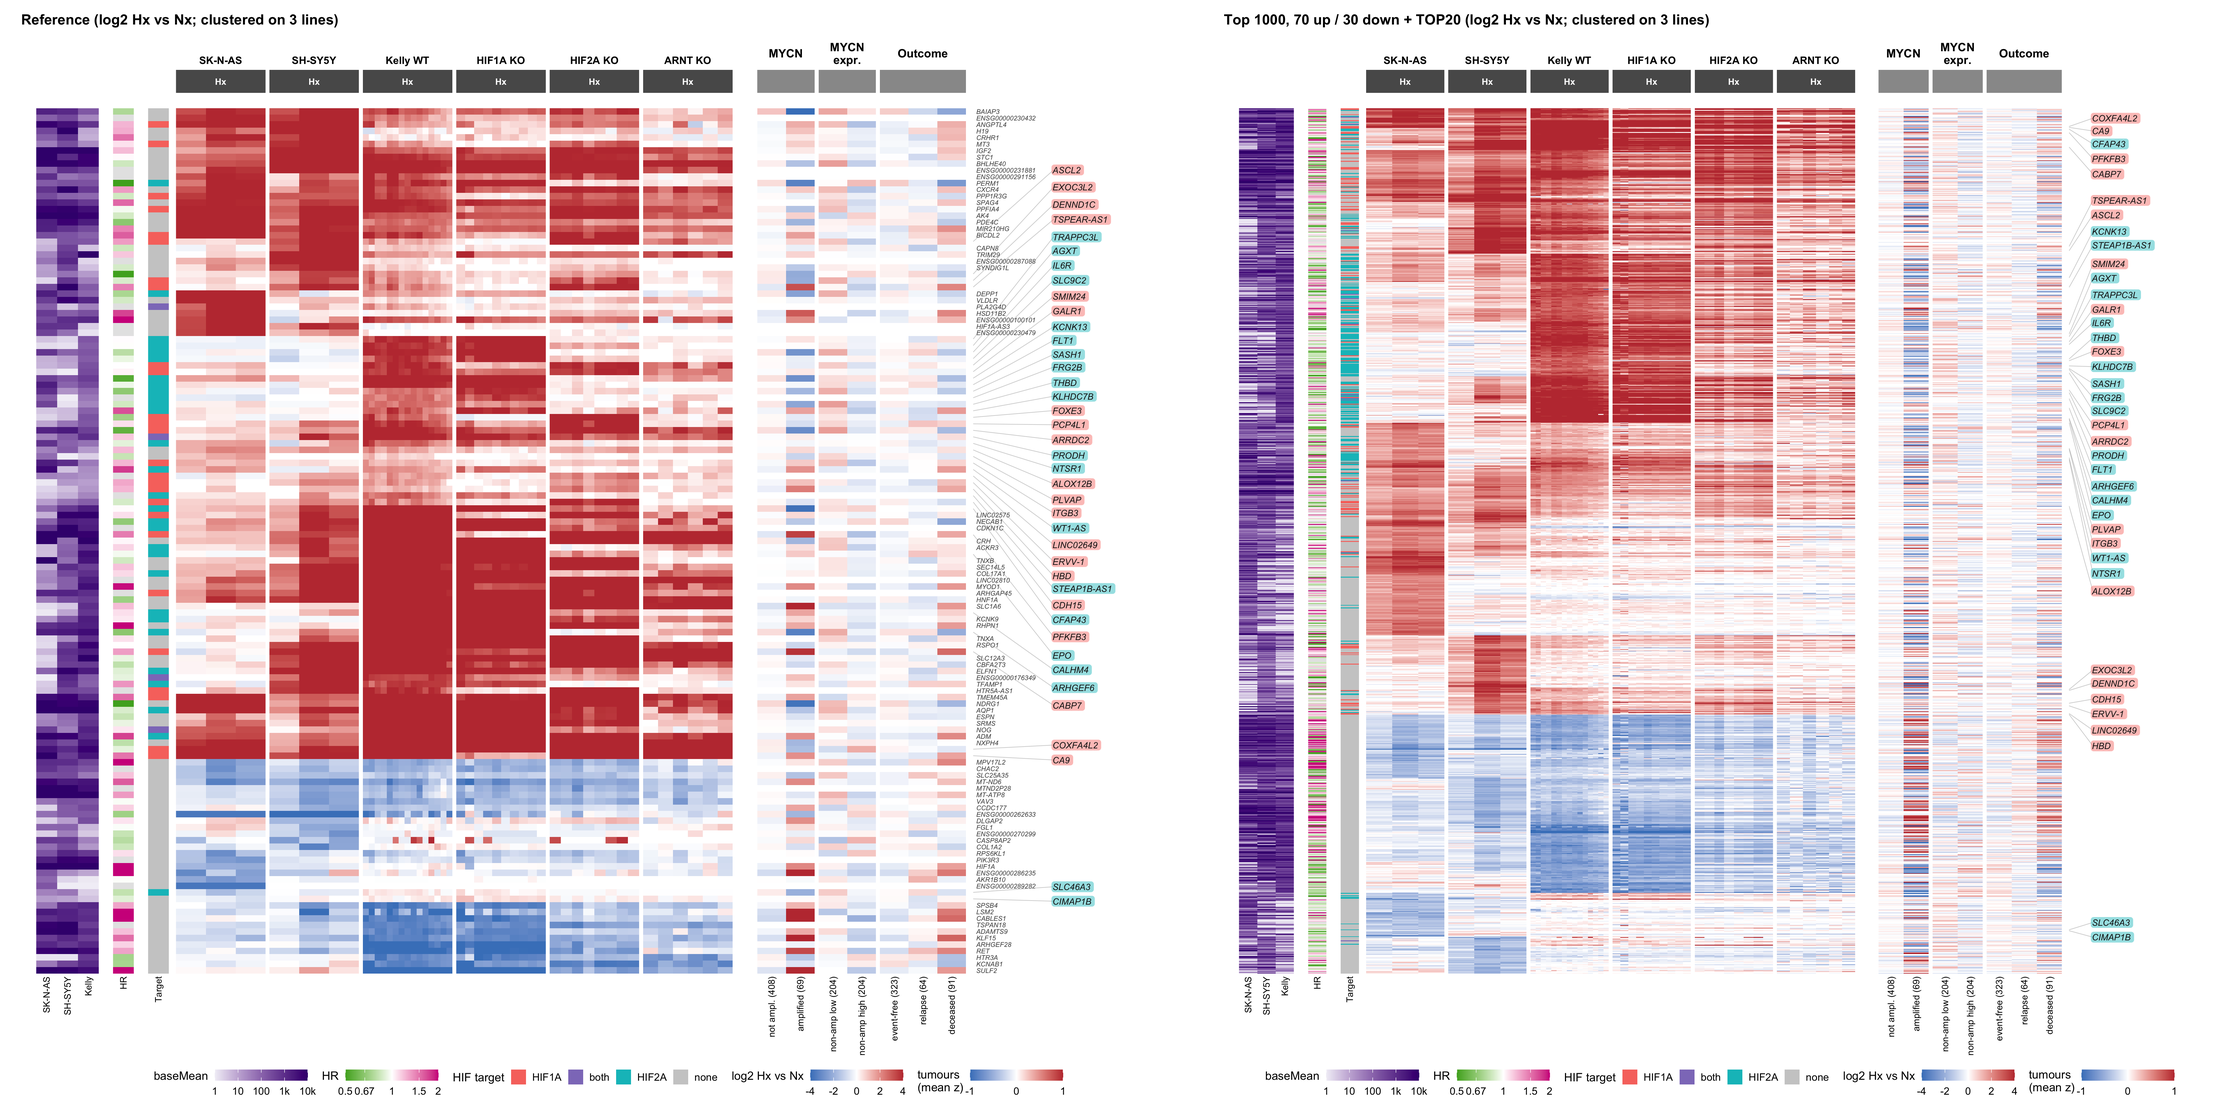
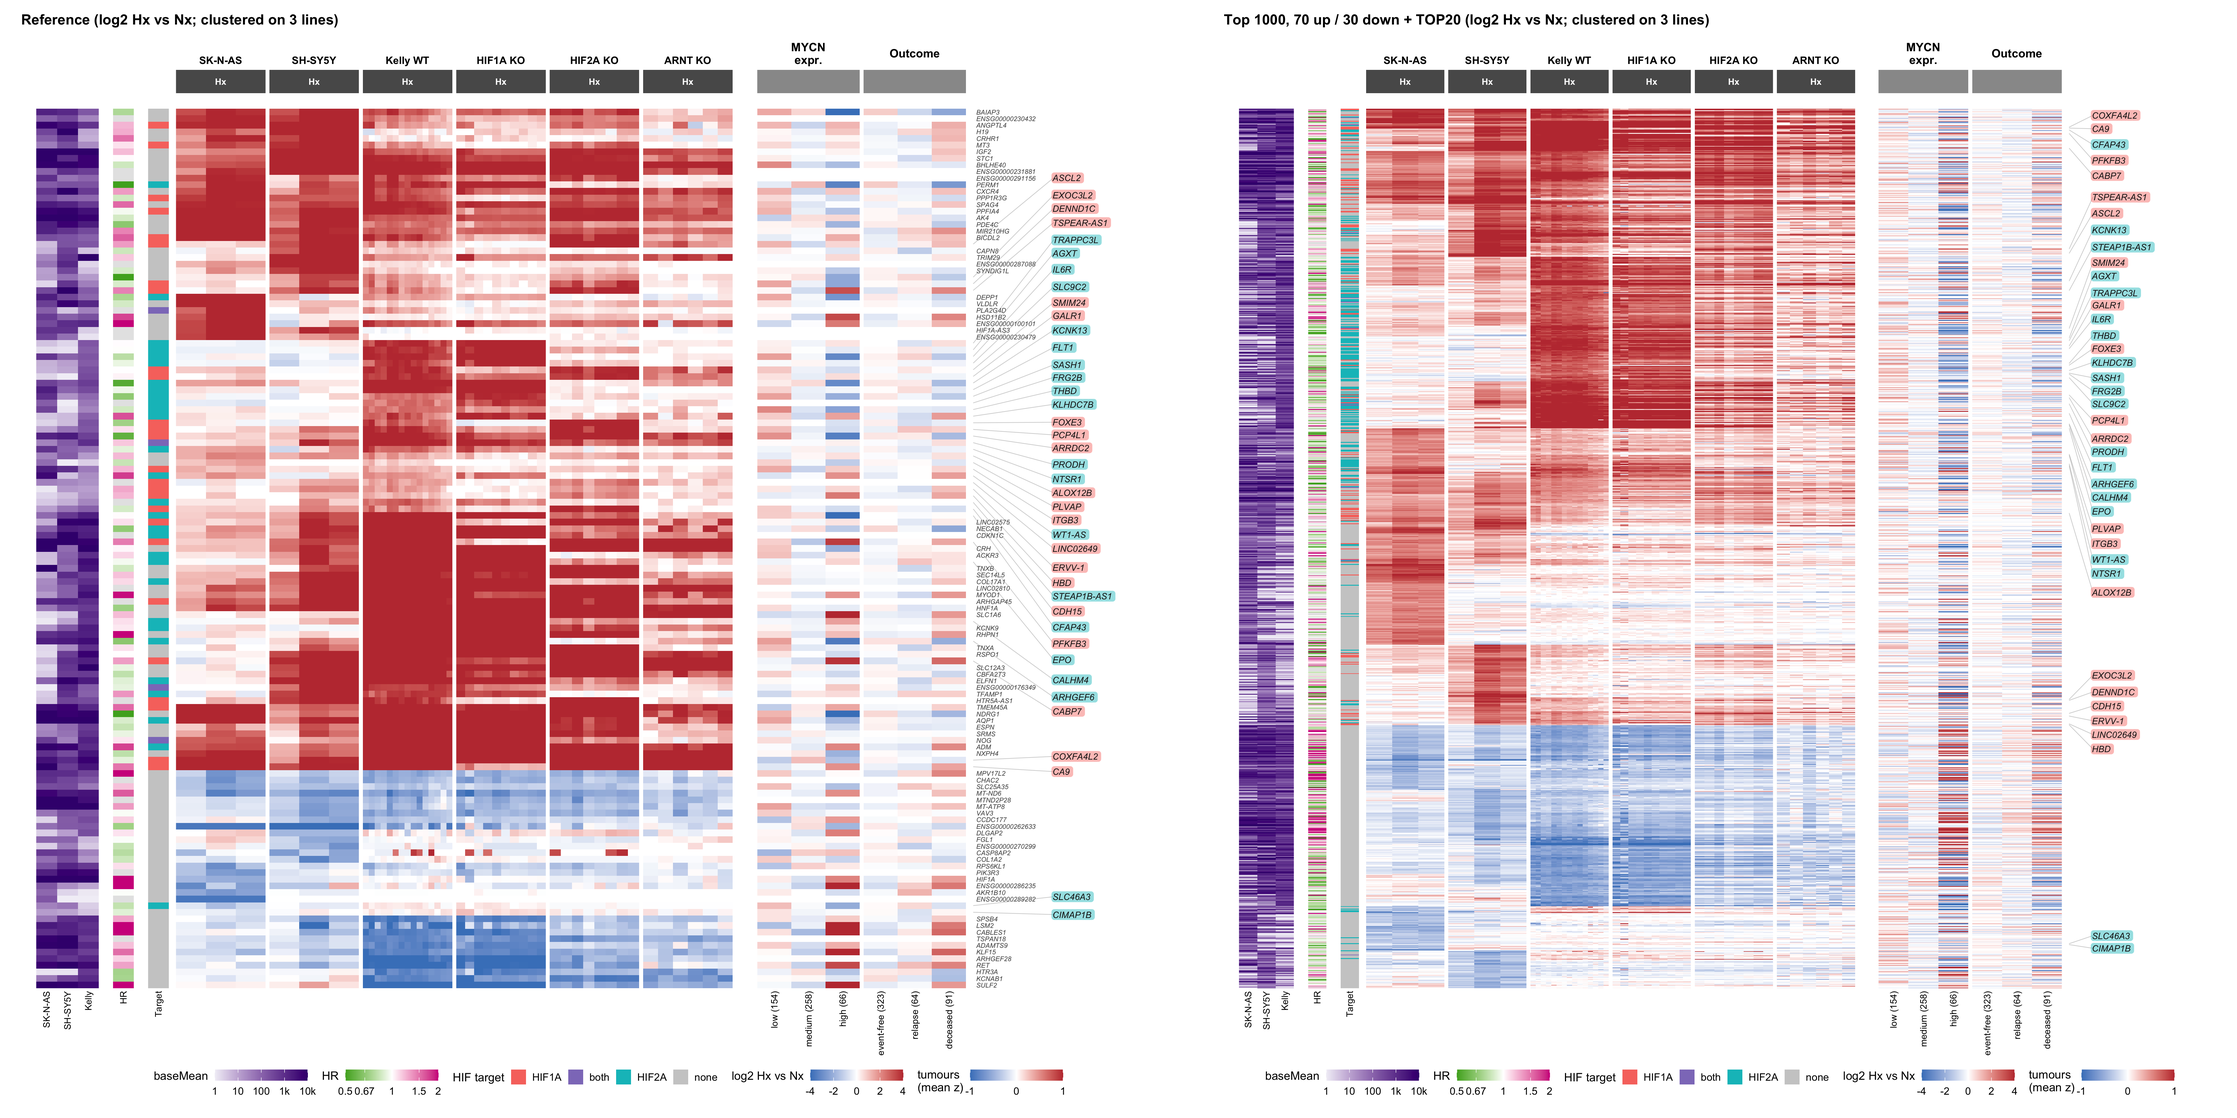
MYCN expression in three groups by measured level, cutoffs in histogram, numbered figures

diff --git a/6_XM_data_merge/Dive.md b/6_XM_data_merge/Dive.md
@@ -411,6 +411,9 @@ p2 <- mk(dplyr::filter(pdat, panel == "HIF2A targets"), "HIF2A targets", FALSE)
 
 </details>
 
+**Figure 1. Clinical risk versus HIF dependence of the HIF1A and HIF2A
+targets**
+
 ![](Dive_files/figure-gfm/risk_vs_dependence-1.png)<!-- -->
 
 **Genes per panel - the difference to `in_dive` are genes without a
@@ -506,6 +509,8 @@ ggplot(hr_top, aes(y = label, x = HR, colour = group)) +
 ```
 
 </details>
+
+**Figure 2. Hazard ratios of the top HIF1A and HIF2A targets**
 
 ![](Dive_files/figure-gfm/hr_top_targets-1.png)<!-- -->
 
@@ -763,12 +768,11 @@ if (file.exists(tum_cache)) {
   saveRDS(tum, tum_cache)
 }
 
-# Clinical annotation of the tumours, condensed into three group columns:
-# MYCN status (Nmyc gain counts as not amplified), MYCN expression and outcome.
-# MYCN expression is bimodal: the amplified tumours form their own peak, so a
-# median split over all tumours would mostly re-split by amplification.
-# Instead the non-amplified tumours are split at their own median.
-# Matched to the array columns by scan name.
+# Clinical annotation of the tumours, condensed into two group columns:
+# MYCN expression (three levels by the actual array expression, regardless of
+# amplification) and outcome. The amplification status (Nmyc gain counts as
+# not amplified) is kept only for the histogram. Matched to the array columns
+# by scan name.
 tum_meta <- read.csv(here::here("6_XM_data_merge", "Primary_NB_Microarray_meta",
                                 "metadata_nb.csv"), check.names = FALSE)[, -1] %>%
   dplyr::transmute(
@@ -783,13 +787,13 @@ tum_meta <- read.csv(here::here("6_XM_data_merge", "Primary_NB_Microarray_meta",
                             deceased = "deceased"),
     mycn_expr = tum$mycn[sample]) %>%
   dplyr::filter(sample %in% colnames(tum$z))
-mycn_cut <- median(tum_meta$mycn_expr[tum_meta$MYCN %in% "not ampl."])
+# Cutoffs between the groups, set by eye from the histogram (low <= 12.4,
+# medium 12.6 - 14.8, high > 15); the boundaries sit in the middle of the gaps.
+mycn_cuts <- c(12.5, 14.9)
 tum_meta <- tum_meta %>%
-  dplyr::mutate(`MYCN expr.` = dplyr::case_when(
-    MYCN %in% "not ampl." & mycn_expr <  mycn_cut ~ "non-amp low",
-    MYCN %in% "not ampl." & mycn_expr >= mycn_cut ~ "non-amp high"))
-tum_levels <- list(MYCN         = c("not ampl.", "amplified"),
-                   `MYCN expr.` = c("non-amp low", "non-amp high"),
+  dplyr::mutate(`MYCN expr.` = as.character(cut(mycn_expr, c(-Inf, mycn_cuts, Inf),
+                                                labels = c("low", "medium", "high"))))
+tum_levels <- list(`MYCN expr.` = c("low", "medium", "high"),
                    Outcome      = c("event-free", "relapse", "deceased"))
 tum_groups <- purrr::imap_dfr(tum_levels, function(lv, panel) {
   tum_meta %>%
@@ -1070,6 +1074,8 @@ hx_heatmap(character(0), title = "CUT&RUN TOP20 HIF1A / HIF2A targets (log2 Hx v
 
 </details>
 
+**Figure 3. CUT&RUN TOP20 HIF1A / HIF2A targets**
+
 <img src="Dive_files/figure-gfm/hx_heatmap_top20-1.png" width="40%" />
 
 All 40 genes are readable. The KO columns confirm the assignment: the
@@ -1126,6 +1132,8 @@ hx_heatmap(names(targets), split = targets,
 
 </details>
 
+**Figure 4. All HIF1A and HIF2A targets**
+
 <img src="Dive_files/figure-gfm/hx_heatmap_targets-1.png" width="40%" />
 
 The split makes the difference between the two arms obvious. The HIF2A
@@ -1163,19 +1171,19 @@ the clinical hazard ratio per gene (green protective, magenta adverse,
 grey no survival data).
 
 On the right, the same genes in **478 primary neuroblastomas**
-(microarray), condensed into clinical groups: MYCN status, INSS stage
-and outcome. Each column is the mean z-score of the gene across the
-tumours of that group, with the z-score taken per gene over the whole
-cohort. Array intensities cannot be put on the log2-vs-Nx scale of the
-cell lines, so only the difference between groups counts: red = higher
-in this group than in the average tumour.
+(microarray), condensed into clinical groups: MYCN expression and
+outcome. Each column is the mean z-score of the gene across the tumours
+of that group, with the z-score taken per gene over the whole cohort.
+Array intensities cannot be put on the log2-vs-Nx scale of the cell
+lines, so only the difference between groups counts: red = higher in
+this group than in the average tumour.
 
-MYCN expression on the array is bimodal (below): the amplified tumours
-form a separate peak at high expression. A median split over all tumours
-would therefore largely repeat the amplification status. The **MYCN
-expr.** columns instead split only the non-amplified tumours at their
-own median (dashed line, log2 12.8), which asks whether MYCN level
-matters beyond amplification.
+MYCN expression on the array is bimodal (Figure 5): the amplified
+tumours form a separate peak at high expression. The **MYCN expr.**
+columns group the tumours by the measured expression alone, with cutoffs
+at log2 12.5 and 14.9 (dashed lines): **low**, **medium** and **high**.
+High is almost entirely the amplified peak, low and medium split the
+non-amplified tumours.
 
 <details>
 
@@ -1185,16 +1193,24 @@ Code
 </summary>
 
 ``` r
+mycn_n <- table(factor(tum_meta$`MYCN expr.`, levels = tum_levels$`MYCN expr.`))
 ggplot(tum_meta, aes(x = mycn_expr, fill = MYCN)) +
   geom_histogram(binwidth = 0.25) +
-  geom_vline(xintercept = mycn_cut, linetype = 2, linewidth = 0.4) +
+  geom_vline(xintercept = mycn_cuts, linetype = 2, linewidth = 0.4) +
+  annotate("text", x = c(mycn_cuts[1] - 0.15, mean(mycn_cuts), mycn_cuts[2] + 0.15), y = Inf,
+           vjust = 1.3, hjust = c(1, 0.5, 0), size = 3,
+           label = paste0(names(mycn_n), " (", mycn_n, ")")) +
   scale_fill_manual(values = c(amplified = "#C03A3E", `not ampl.` = "grey60"),
                     na.value = "grey85", name = "MYCN") +
+  scale_y_continuous(expand = expansion(mult = c(0.02, 0.15))) +
   labs(x = "MYCN expression (log2 array intensity)", y = "tumours") +
   theme_minimal(base_size = 10)
 ```
 
 </details>
+
+**Figure 5. MYCN expression in the primary tumours, with the cutoffs of
+the three MYCN expr. groups**
 
 <img src="Dive_files/figure-gfm/tumour_mycn_hist-1.png" width="60%" />
 
@@ -1213,33 +1229,32 @@ hx_heatmap(hx500, rows = hx_rows_500, tumours = TRUE,
 
 </details>
 
+**Figure 6. Top 500 hypoxia-regulated genes, with the primary tumours**
+
 <img src="Dive_files/figure-gfm/hx_heatmap_hx500-1.png" width="40%" />
 
 **Tumour hypoxia score (median of the mean signed z of the shown genes)
 per clinical group; p for the overall score**
 
-| panel      | group              |  score | score_up | score_down | p       |
-|:-----------|:-------------------|-------:|---------:|-----------:|:--------|
-| MYCN       | not ampl. (408)    |  0.013 |    0.012 |      0.094 | 5.8e-07 |
-| MYCN       | amplified (69)     | -0.125 |   -0.107 |     -0.410 |         |
-| MYCN expr. | non-amp low (204)  |  0.067 |    0.068 |      0.004 | 1.4e-14 |
-| MYCN expr. | non-amp high (204) | -0.048 |   -0.050 |      0.146 |         |
-| Outcome    | event-free (323)   |  0.007 |    0.005 |      0.108 | 1.9e-02 |
-| Outcome    | relapse (64)       | -0.021 |   -0.023 |     -0.076 |         |
-| Outcome    | deceased (91)      | -0.035 |   -0.022 |     -0.180 |         |
+| panel      | group            |  score | score_up | score_down | p       |
+|:-----------|:-----------------|-------:|---------:|-----------:|:--------|
+| MYCN expr. | low (154)        |  0.084 |    0.088 |     -0.039 | 5.3e-16 |
+| MYCN expr. | medium (258)     | -0.031 |   -0.034 |      0.145 |         |
+| MYCN expr. | high (66)        | -0.127 |   -0.116 |     -0.384 |         |
+| Outcome    | event-free (323) |  0.007 |    0.005 |      0.108 | 1.9e-02 |
+| Outcome    | relapse (64)     | -0.021 |   -0.023 |     -0.076 |         |
+| Outcome    | deceased (91)    | -0.035 |   -0.022 |     -0.180 |         |
 
 Counter to the expectation that aggressive tumours are more hypoxic, the
-cell-line hypoxia program is slightly *weaker* in MYCN-amplified tumours
-and, to a lesser degree, in fatal cases (which overlap largely with MYCN
-amplification). Among the non-amplified tumours, those with higher MYCN
-expression also score lower, so the effect follows the MYCN level, not
-only the amplification. The effects are small: a score of −0.1 means the
-shown genes sit on average 0.1 SD below the cohort mean. Bulk tumour
-expression has no normoxic reference, so this score mixes hypoxia with
-everything else that differs between the groups - above all the
-MYCN-driven program itself, which shifts many of these genes. The
-heatmap shows that the shift is not uniform: single blocks go up in
-MYCN-amplified tumours while others go down.
+cell-line hypoxia program gets *weaker* step by step with rising MYCN
+expression (low \> medium \> high), and to a lesser degree in fatal
+cases (which overlap largely with the MYCN-high tumours). The effects
+are small: a score of −0.1 means the shown genes sit on average 0.1 SD
+below the cohort mean. Bulk tumour expression has no normoxic reference,
+so this score mixes hypoxia with everything else that differs between
+the groups - above all the MYCN-driven program itself, which shifts many
+of these genes. The heatmap shows that the shift is not uniform: single
+blocks go up in MYCN-high tumours while others go down.
 
 With the baseline lines contributing their own top genes, line-specific
 blocks appear: genes induced only in SK-N-AS or only in SH-SY5Y (Kelly
@@ -1271,6 +1286,8 @@ hx_heatmap(hx500, mat = hm_z, lim = 2, rows = hx_rows_500, fill_name = "z-score"
 
 </details>
 
+**Figure 7. Top 500 hypoxia-regulated genes, z-score per line**
+
 <img src="Dive_files/figure-gfm/hx_heatmap_hx500_z-1.png" width="40%" />
 
 ## 5. Top 100 hypoxia-regulated genes, 70 up / 30 down (log2 Hx vs Nx)
@@ -1299,6 +1316,8 @@ hx_heatmap(hx_ref, rows = hx_rows_ref, tumours = TRUE, gene_names = TRUE,
 ```
 
 </details>
+
+**Figure 8. Reference heatmap: top 100 (70 up / 30 down) plus TOP20**
 
 ![](Dive_files/figure-gfm/hx_heatmap_ref-1.png)<!-- -->
 
@@ -1330,6 +1349,9 @@ hx_pair(
 ```
 
 </details>
+
+**Figure 9. Reference genes in three scalings: log2 with Nx, log2 Hx
+only, z-score**
 
 ![](Dive_files/figure-gfm/hx_heatmap_hx100-1.png)<!-- -->
 
@@ -1367,6 +1389,9 @@ hx_pair(
 
 </details>
 
+**Figure 10. Reference genes in three row orders: clustered, by
+responding lines, by HIF target**
+
 ![](Dive_files/figure-gfm/hx_heatmap_hx100_groups-1.png)<!-- -->
 
 ### 5c. Gene number: reference (left) vs top 1000 (right), both 70 up / 30 down
@@ -1390,6 +1415,8 @@ hx_pair(
 
 </details>
 
+**Figure 11. Reference genes vs top 1000**
+
 ![](Dive_files/figure-gfm/hx_heatmap_hx1000-1.png)<!-- -->
 
 ### Tumour score
@@ -1397,26 +1424,25 @@ hx_pair(
 **Tumour hypoxia score for the top 100 (70 up / 30 down) per clinical
 group**
 
-| panel      | group              |  score | score_up | score_down | p       |
-|:-----------|:-------------------|-------:|---------:|-----------:|:--------|
-| MYCN       | not ampl. (408)    |  0.015 |    0.002 |      0.070 | 1.7e-07 |
-| MYCN       | amplified (69)     | -0.097 |   -0.011 |     -0.282 |         |
-| MYCN expr. | non-amp low (204)  |  0.070 |    0.087 |      0.029 | 6.4e-06 |
-| MYCN expr. | non-amp high (204) | -0.028 |   -0.101 |      0.089 |         |
-| Outcome    | event-free (323)   |  0.007 |   -0.007 |      0.075 | 7.8e-02 |
-| Outcome    | relapse (64)       | -0.038 |   -0.028 |      0.002 |         |
-| Outcome    | deceased (91)      | -0.016 |    0.049 |     -0.170 |         |
+| panel      | group            |  score | score_up | score_down | p       |
+|:-----------|:-----------------|-------:|---------:|-----------:|:--------|
+| MYCN expr. | low (154)        |  0.070 |    0.092 |      0.014 | 1.1e-09 |
+| MYCN expr. | medium (258)     | -0.010 |   -0.061 |      0.089 |         |
+| MYCN expr. | high (66)        | -0.106 |   -0.021 |     -0.282 |         |
+| Outcome    | event-free (323) |  0.007 |   -0.007 |      0.075 | 7.8e-02 |
+| Outcome    | relapse (64)     | -0.038 |   -0.028 |      0.002 |         |
+| Outcome    | deceased (91)    | -0.016 |    0.049 |     -0.170 |         |
 
 The split score shows where the MYCN difference of the top 500 comes
 from: the hypoxia-*induced* genes hardly differ between the clinical
 groups (`score_up` near 0), but the hypoxia-*repressed* genes are
-clearly higher in MYCN-amplified tumours (`score_down` −0.28, i.e. they
-do *not* follow the hypoxic repression) and, more weakly, in fatal
-cases. Many of these repressed genes carry an adverse HR (magenta in the
-HR strip). So MYCN-amplified tumours do not look less hypoxic by their
-induced genes - they keep genes high that hypoxia shuts off in the cell
-lines, plausibly MYCN-driven genes such as proliferation and
-biosynthesis genes.
+clearly higher in MYCN-high tumours (`score_down` −0.28, i.e. they do
+*not* follow the hypoxic repression) and, more weakly, in fatal cases.
+Many of these repressed genes carry an adverse HR (magenta in the HR
+strip). So MYCN-high tumours do not look less hypoxic by their induced
+genes - they keep genes high that hypoxia shuts off in the cell lines,
+plausibly MYCN-driven genes such as proliferation and biosynthesis
+genes.
 
 **Median Hx response (log2 vs Nx) per line, and Spearman correlation of
 the per-gene response with Kelly**
@@ -1440,7 +1466,7 @@ the embedding uses the HR and expression level as well, as three blocks:
 - **log10 baseMean** in the three lines
 
 The tumour data are left out: their contrasts are almost the same
-variable as the HR (the HR comes from the same cohort, Spearman 0.86 -
+variable as the HR (the HR comes from the same cohort, Spearman 0.79 -
 0.95), so they would let the clinical axis enter several times.
 
 Every column is scaled, and every block is divided by √(number of
@@ -1459,10 +1485,11 @@ Code
 umap_ens <- in_hm$Ensembl[rowSums(hx_deg) > 0]
 tum_grp_mean <- sapply(split(tum_groups$sample, tum_groups$label),
                        function(s) rowMeans(tum$z[, s, drop = FALSE]))
+grp_col <- function(g) tum_grp_mean[, grep(paste0("^", g, " \\("), colnames(tum_grp_mean))]
 tum_contrast <- cbind(
-  `MYCN amp - not`        = tum_grp_mean[, "amplified (69)"]     - tum_grp_mean[, "not ampl. (408)"],
-  `MYCN high - low`       = tum_grp_mean[, "non-amp high (204)"] - tum_grp_mean[, "non-amp low (204)"],
-  `deceased - event-free` = tum_grp_mean[, "deceased (91)"]      - tum_grp_mean[, "event-free (323)"])
+  `MYCN high - low`       = grp_col("high")     - grp_col("low"),
+  `MYCN medium - low`     = grp_col("medium")   - grp_col("low"),
+  `deceased - event-free` = grp_col("deceased") - grp_col("event-free"))
 log2_hr <- setNames(log2(hr_vals$HR), hr_vals$Ensembl)
 bm_mat  <- base_means %>% tibble::column_to_rownames("Ensembl") %>% as.matrix()
 umap_ens <- intersect(umap_ens, names(log2_hr)[!is.na(log2_hr)])
@@ -1536,31 +1563,33 @@ umap_cat("pattern", c(`all 3 lines` = "#E41A1C", `Kelly + 1 line` = "#FF7F00",
 
 </details>
 
+**Figure 12. UMAP of all hypoxia-regulated genes with survival data**
+
 ![](Dive_files/figure-gfm/hx_umap-1.png)<!-- -->
 
 **Spearman correlation between response, HR, expression and the tumour
 contrasts (5941 genes)**
 
-| feature | Kelly | log2HR | baseMean | MYCN amp - not | MYCN high - low | deceased - event-free |
+| feature | Kelly | log2HR | baseMean | MYCN high - low | MYCN medium - low | deceased - event-free |
 |:---|---:|---:|---:|---:|---:|---:|
-| Kelly | 1.00 | -0.25 | -0.05 | -0.23 | -0.09 | -0.24 |
-| log2HR | -0.25 | 1.00 | 0.07 | 0.86 | -0.06 | 0.95 |
-| baseMean | -0.05 | 0.07 | 1.00 | 0.08 | 0.23 | 0.06 |
-| MYCN amp - not | -0.23 | 0.86 | 0.08 | 1.00 | 0.02 | 0.88 |
-| MYCN high - low | -0.09 | -0.06 | 0.23 | 0.02 | 1.00 | -0.13 |
-| deceased - event-free | -0.24 | 0.95 | 0.06 | 0.88 | -0.13 | 1.00 |
+| Kelly | 1.00 | -0.25 | -0.05 | -0.24 | -0.08 | -0.24 |
+| log2HR | -0.25 | 1.00 | 0.07 | 0.79 | -0.05 | 0.95 |
+| baseMean | -0.05 | 0.07 | 1.00 | 0.13 | 0.22 | 0.06 |
+| MYCN high - low | -0.24 | 0.79 | 0.13 | 1.00 | 0.29 | 0.80 |
+| MYCN medium - low | -0.08 | -0.05 | 0.22 | 0.29 | 1.00 | -0.11 |
+| deceased - event-free | -0.24 | 0.95 | 0.06 | 0.80 | -0.11 | 1.00 |
 
 **Leiden clusters: medians per cluster (log2 Hx vs Nx per line, HIF1A vs
 2A = signed dependence, positive = HIF1A)**
 
-| cluster | genes | % up | Kelly | SK-N-AS | SH-SY5Y | % all 3 lines | % Kelly only | % HIF1A tgt | % HIF2A tgt | HIF1A vs 2A | baseMean | HR | MYCN amp - not |
+| cluster | genes | % up | Kelly | SK-N-AS | SH-SY5Y | % all 3 lines | % Kelly only | % HIF1A tgt | % HIF2A tgt | HIF1A vs 2A | baseMean | HR | MYCN high - low |
 |:---|---:|---:|---:|---:|---:|---:|---:|---:|---:|---:|---:|---:|---:|
-| 1 | 1520 | 98 | 1.45 | 0.58 | 0.57 | 15 | 52 | 10 | 24 | -0.42 | 995 | 0.89 | -0.17 |
-| 2 | 946 | 96 | 0.81 | 0.68 | 0.47 | 8 | 49 | 5 | 29 | -0.82 | 38 | 0.97 | -0.10 |
-| 3 | 1160 | 84 | 0.33 | 0.06 | 0.08 | 0 | 82 | 3 | 17 | -0.75 | 3 | 1.01 | -0.02 |
-| 4 | 512 | 79 | 0.21 | 0.24 | -0.03 | 1 | 48 | 2 | 12 | -0.68 | 2 | 0.95 | -0.13 |
-| 5 | 1164 | 3 | -1.09 | -0.37 | -0.54 | 2 | 66 | 0 | 0 | -0.44 | 476 | 0.93 | -0.13 |
-| 6 | 639 | 0 | -1.27 | -0.67 | -0.60 | 4 | 73 | 0 | 0 | -0.84 | 2261 | 2.69 | 0.94 |
+| 1 | 1520 | 98 | 1.45 | 0.58 | 0.57 | 15 | 52 | 10 | 24 | -0.42 | 995 | 0.89 | -0.23 |
+| 2 | 946 | 96 | 0.81 | 0.68 | 0.47 | 8 | 49 | 5 | 29 | -0.82 | 38 | 0.97 | -0.18 |
+| 3 | 1160 | 84 | 0.33 | 0.06 | 0.08 | 0 | 82 | 3 | 17 | -0.75 | 3 | 1.01 | -0.05 |
+| 4 | 512 | 79 | 0.21 | 0.24 | -0.03 | 1 | 48 | 2 | 12 | -0.68 | 2 | 0.95 | -0.30 |
+| 5 | 1164 | 3 | -1.09 | -0.37 | -0.54 | 2 | 66 | 0 | 0 | -0.44 | 476 | 0.93 | -0.20 |
+| 6 | 639 | 0 | -1.27 | -0.67 | -0.60 | 4 | 73 | 0 | 0 | -0.84 | 2261 | 2.69 | 1.12 |
 
 What the embedding shows:
 
@@ -1580,7 +1609,7 @@ What the embedding shows:
   - **3** - weak, Kelly-only induction of barely expressed genes.
   - **4** - weak induction, low expression, partly SK-N-AS-driven.
 - **Repressed genes (clusters 5-6)** split by the HR: cluster **6** is
-  highly expressed, adverse (median HR 2.7) and high in MYCN-amplified
+  highly expressed, adverse (median HR 2.7) and high in MYCN-high
   tumours - the MYCN-like genes that hypoxia shuts off in the cell
   lines. Cluster **5** is neutral.
 - **HIF dependence**: every cluster leans HIF2A (negative “HIF1A vs
@@ -1785,6 +1814,8 @@ ggplot(pol, aes(x = x, y = Set, fill = side)) +
 
 </details>
 
+**Figure 13. Share of protective and adverse genes per gene set**
+
 ![](Dive_files/figure-gfm/hr_polarity_overview-1.png)<!-- -->
 
 **Answer to the opening question:** in these data hypoxia-induced genes
@@ -1888,6 +1919,9 @@ ggplot(car_pol, aes(x = x, y = Set, fill = side)) +
 
 </details>
 
+**Figure 14. Share of protective and adverse genes in the CUT&RUN
+overlap lists**
+
 ![](Dive_files/figure-gfm/hr_car_lists-1.png)<!-- -->
 
 # KCNK13, CASP9, DR5: an apoptosis-priming signature?
@@ -1967,6 +2001,8 @@ ggplot(cd, aes(genotype, counts + 1, colour = condition)) +
 ```
 
 </details>
+
+**Figure 15. KCNK13, CASP9 and DR5 counts per genotype and condition**
 
 ![](Dive_files/figure-gfm/kcnk13_counts-1.png)<!-- -->
 
